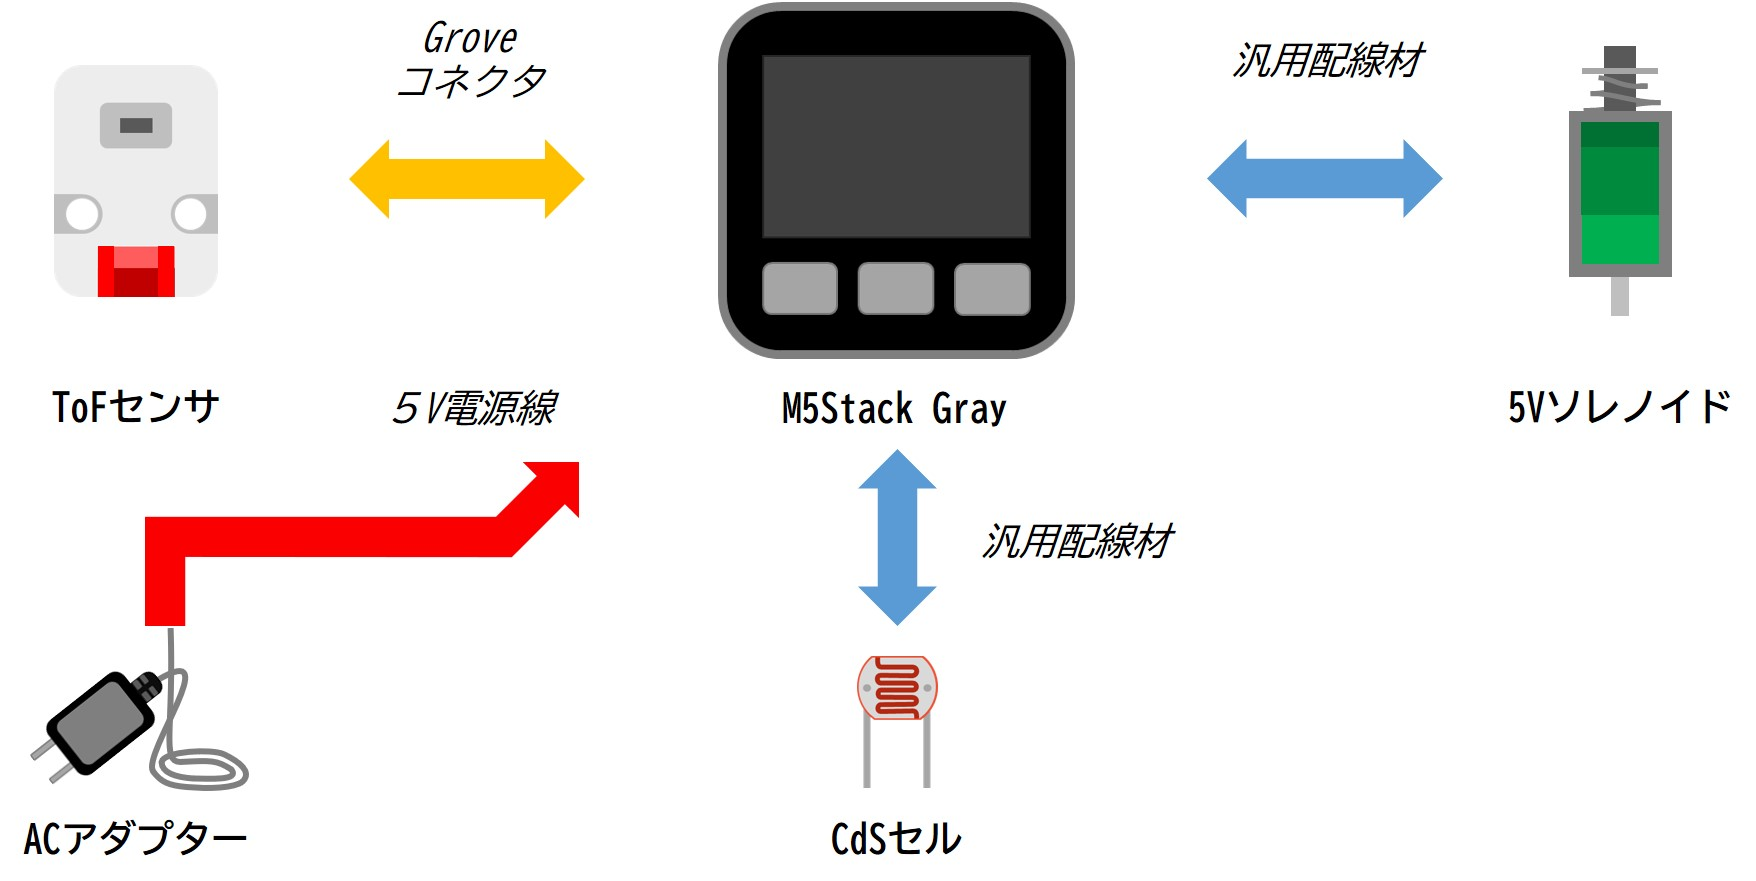
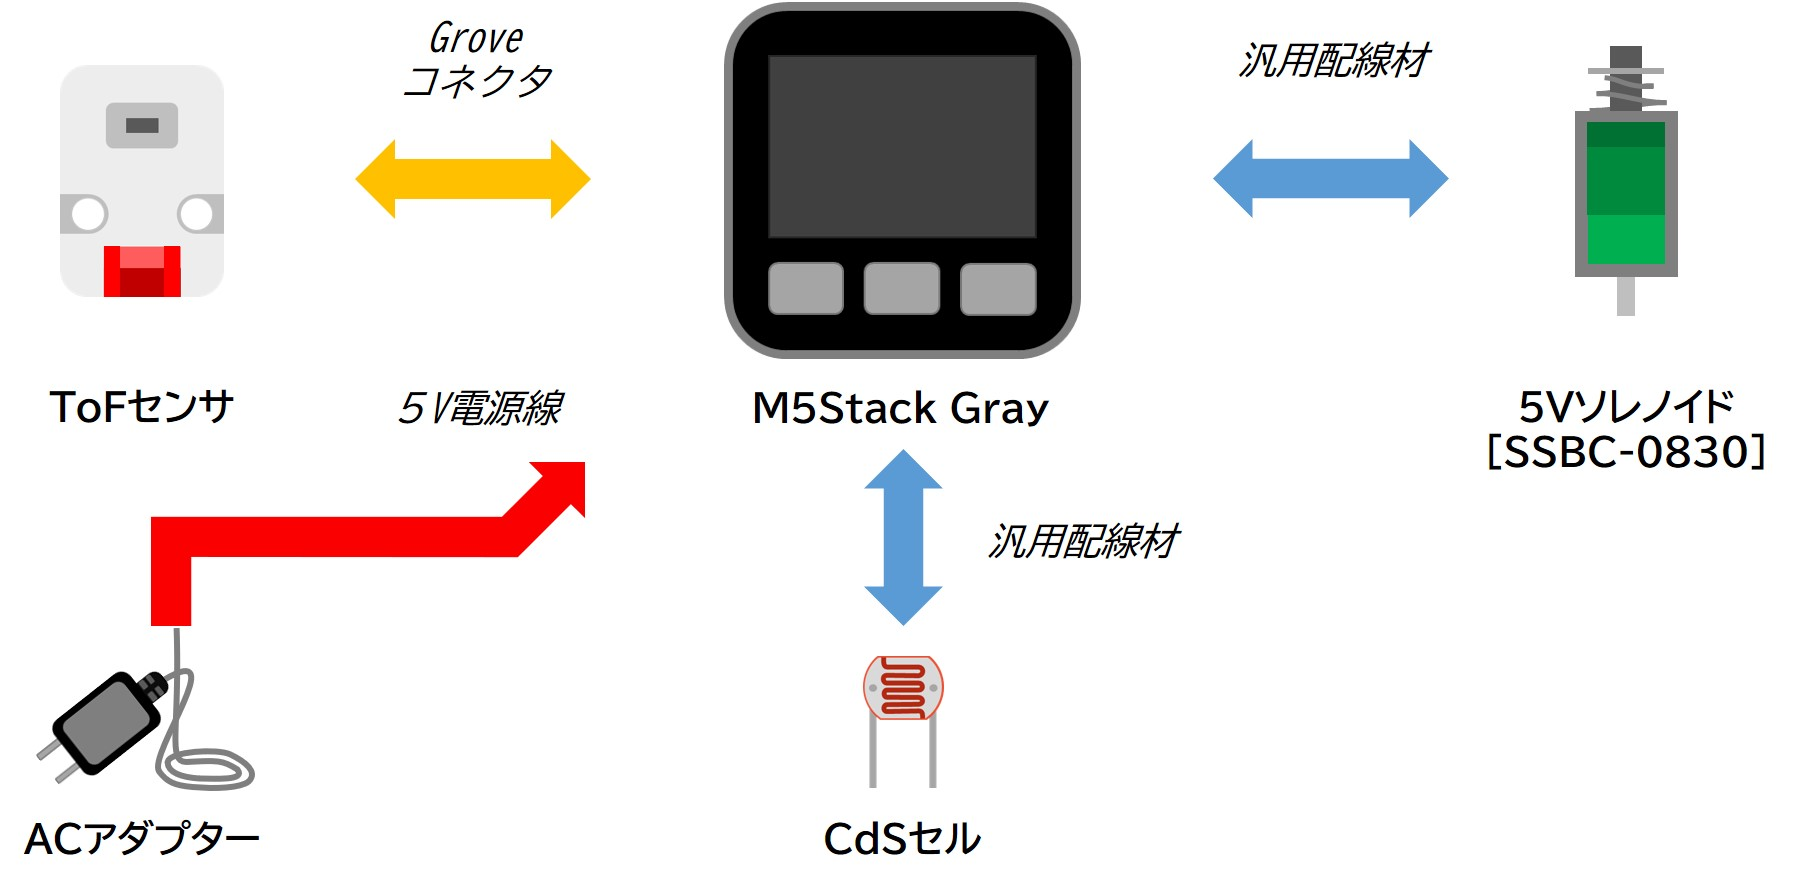
Add Wiring Diagram

diff --git a/README.md b/README.md
@@ -5,7 +5,10 @@
 本リポジトリは[第9回タカハソレノイドコンテスト(ソレコン)](https://www.takaha.co.jp/co/solcon/)の開発リポジトリです．
 
 ## System Configuration
-<img src="img/sysconfig.jpg" width="460">
+* システム構成図
+<img src="img/sysconfig.jpg" width="640">
+* 配線図
+<img src="img/wiring.jpg" width="640">
 
 **備考**  
 応募受付 2022年1月7日（金）〜2月10日（木）  
